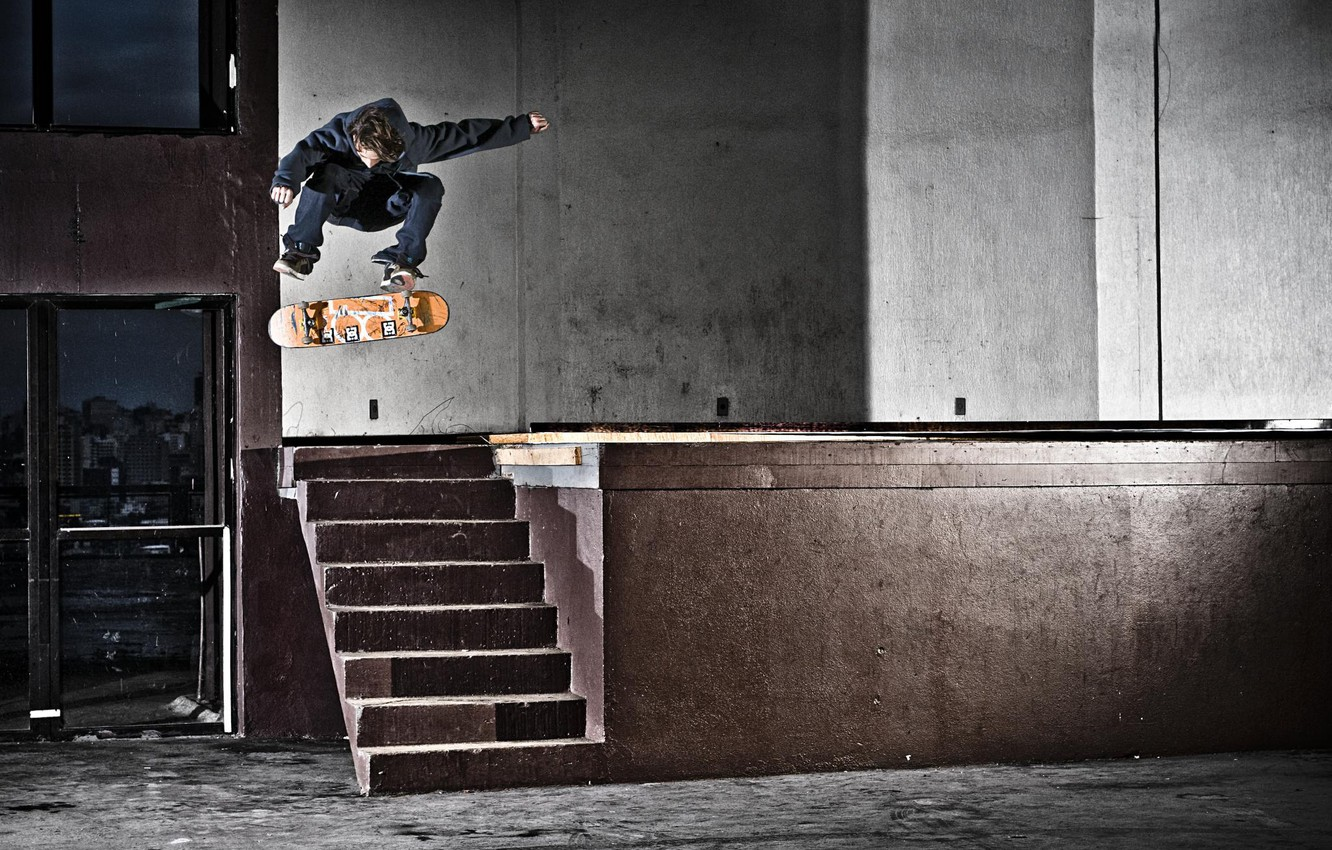
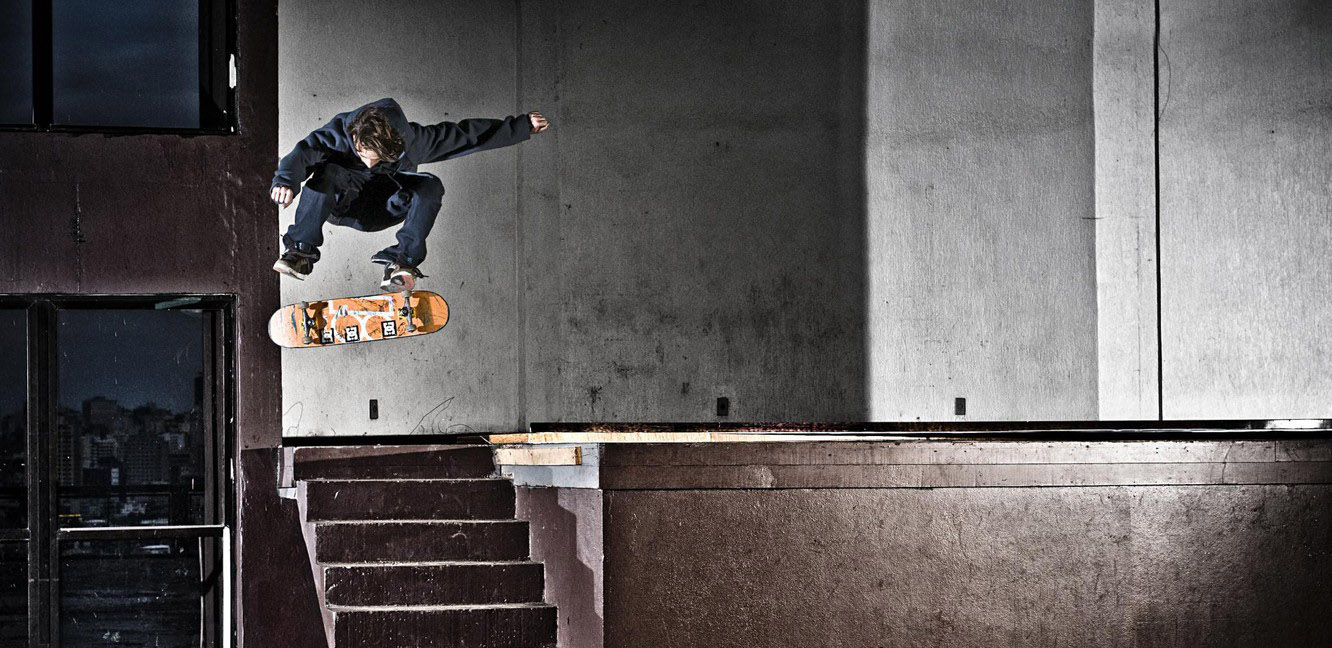
d

diff --git a/style.css b/style.css
@@ -133,7 +133,7 @@ p {
 
 .type-street {
     margin-top: 0;
-    background-image: url(images/street-skatingxx.jpg);
+    background-image: url(images/street-sk8ting.jpg);
     height: 550px;
     background-position: center;
     background-repeat: no-repeat;
